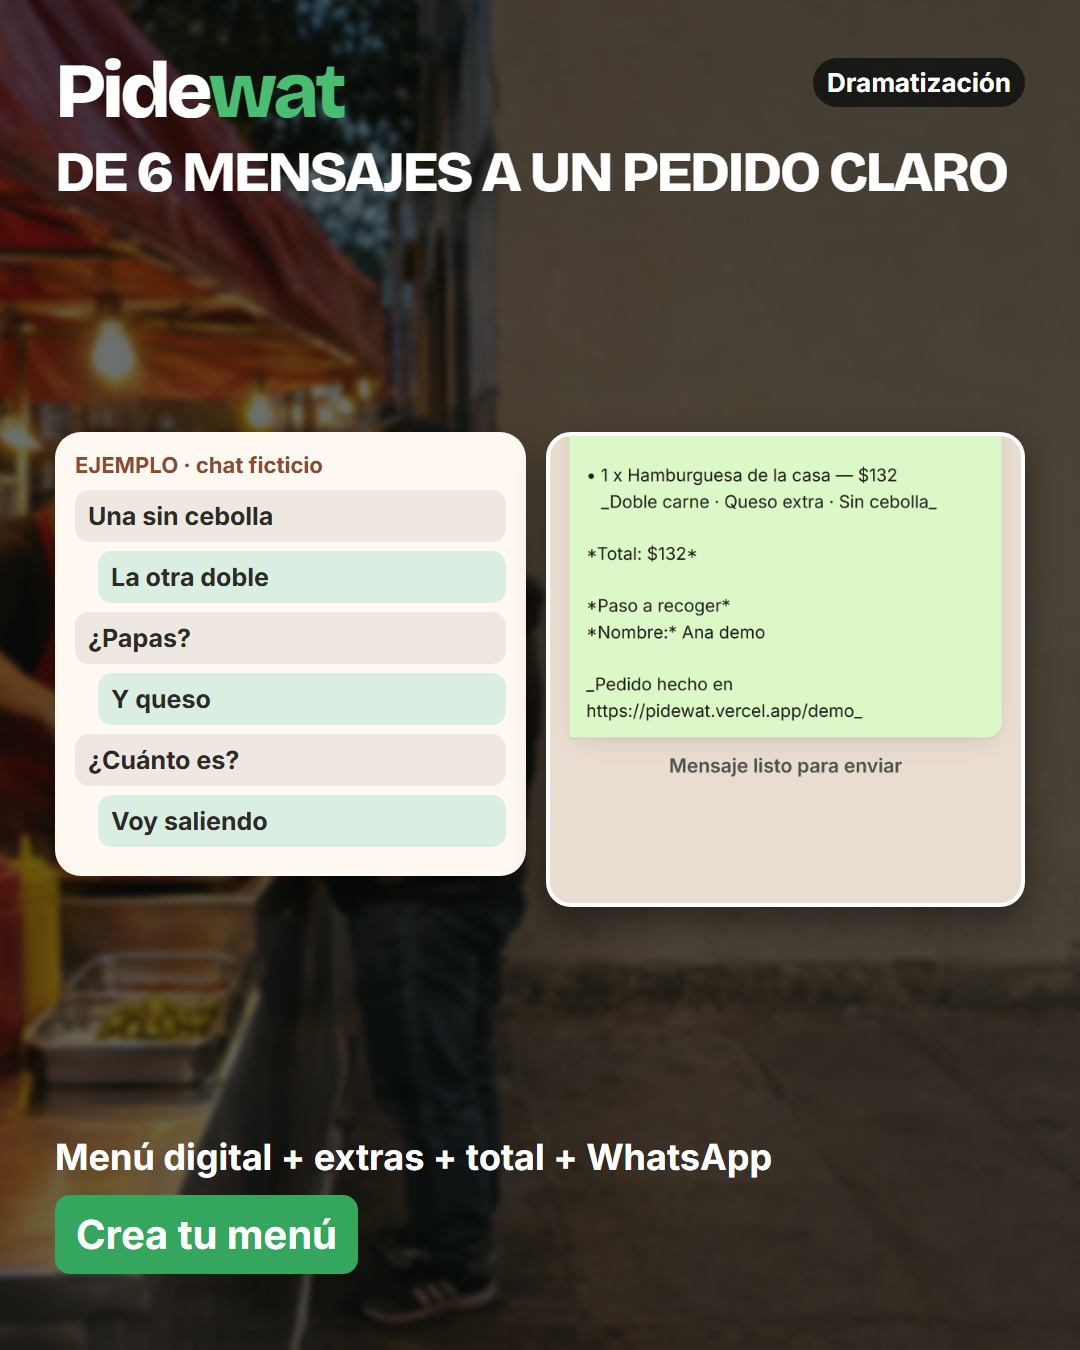
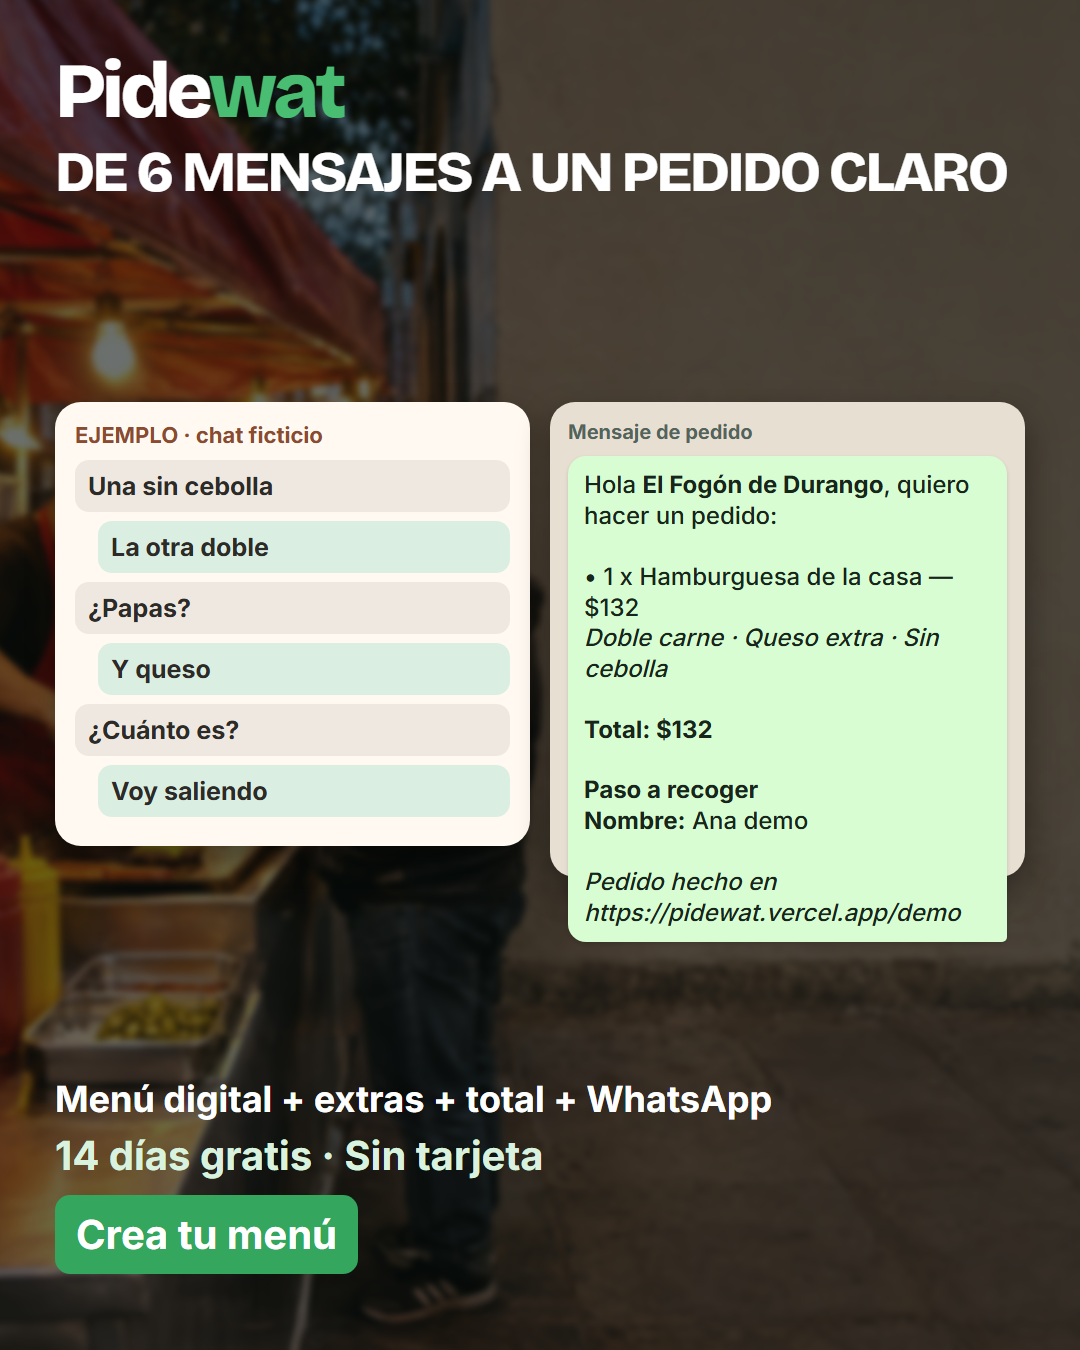
[Codex] Anuncios P3 y R3: oferta en P3, mensaje con formato de WhatsApp y sin «Dramatización»
- P3 muestra «14 días gratis · Sin tarjeta» junto al botón.
- El mensaje de pedido de P3 se ve con negritas e itálicas aplicadas (lógica de formatoWa de la landing), sin * ni _.
- P3 y R3 sin la etiqueta «Dramatización»; los videos no cambian.

Render y revisión: Claude en la PC.

Changed region(s): [[0.0306, 0.28, 0.9472, 0.7156], [0.0306, 0.8089, 0.7333, 0.8711], [0.7333, 0.0311, 0.9472, 0.0933]]

diff --git a/anuncios/src/Root.tsx b/anuncios/src/Root.tsx
@@ -194,16 +194,57 @@ function R2({ formato: f }: { formato: Formato }) {
 
 function ChatEjemplo({ f }: { f: Formato }) { return <div style={{ padding: f === "9x16" ? 25 : 20, borderRadius: 26, background: "#fff9f1", boxShadow: "0 12px 30px #0005", fontFamily: fuenteSubtitulo, color: "#2d2b28" }}><div style={{ fontSize: f === "9x16" ? 25 : 22, fontWeight: 800, color: "#8b4b2e", marginBottom: 12 }}>EJEMPLO · chat ficticio</div>{["Una sin cebolla", "La otra doble", "¿Papas?", "Y queso", "¿Cuánto es?", "Voy saliendo"].map((x, i) => <div key={x} style={{ margin: "9px 0", marginLeft: i % 2 ? 23 : 0, padding: "11px 13px", borderRadius: 14, background: i % 2 ? "#dbeee2" : "#eee8e1", fontSize: f === "9x16" ? 29 : 25, fontWeight: 700 }}>{x}</div>)}</div>; }
 
+// Copiada de src/components/landing/formatoWa.tsx para que Remotion no importe la app principal.
+function TextoWhatsapp({ texto }: { texto: string }) {
+  return <>{texto.split("\n").map((linea, i) => <span key={i} style={{ display: "block", minHeight: "1.25em" }}>{partesWhatsapp(linea)}</span>)}</>;
+}
+
+function partesWhatsapp(linea: string): React.ReactNode[] {
+  const nodos: React.ReactNode[] = [];
+  const re = /\*([^*]+)\*|_([^_]+)_/g;
+  let ultimo = 0;
+  let m: RegExpExecArray | null;
+  let k = 0;
+  while ((m = re.exec(linea))) {
+    if (m.index > ultimo) nodos.push(linea.slice(ultimo, m.index));
+    nodos.push(m[1] != null ? <strong key={k++}>{m[1]}</strong> : <em key={k++}>{m[2]}</em>);
+    ultimo = m.index + m[0].length;
+  }
+  if (ultimo < linea.length) nodos.push(linea.slice(ultimo));
+  return nodos;
+}
+
+const mensajePedidoP3 = [
+  "Hola *El Fogón de Durango*, quiero hacer un pedido:",
+  "",
+  "• 1 x Hamburguesa de la casa — $132",
+  "   _Doble carne · Queso extra · Sin cebolla_",
+  "",
+  "*Total: $132*",
+  "",
+  "*Paso a recoger*",
+  "*Nombre:* Ana demo",
+  "",
+  "_Pedido hecho en https://pidewat.vercel.app/demo_",
+].join("\n");
+
+function PedidoWhatsapp({ f }: { f: Formato }) {
+  return <div style={{ height: "100%", boxSizing: "border-box", padding: f === "9x16" ? 23 : 18, borderRadius: 25, background: "#e8dfd3", boxShadow: "0 14px 32px #0006", fontFamily: fuenteSubtitulo }}>
+    <div style={{ marginBottom: 12, color: "#53645a", fontSize: f === "9x16" ? 23 : 20, fontWeight: 800 }}>Mensaje de pedido</div>
+    <div style={{ padding: f === "9x16" ? "17px 19px" : "14px 16px", borderRadius: "18px 18px 5px 18px", background: "#d9fdd3", color: "#17251b", fontSize: f === "9x16" ? 28 : 24, lineHeight: 1.28, boxShadow: "0 2px 4px #0002" }}><TextoWhatsapp texto={mensajePedidoP3} /></div>
+  </div>;
+}
+
 function Imagen({ tipo, formato: f }: { tipo: "P3" | "R3"; formato: Formato }) {
   const p3 = tipo === "P3";
   const fondo = p3 ? "puesto-4x5.jpg" : "fonda-qr-4x5.jpg";
-  const captura = p3 ? "p3-mensaje-pedido.png" : "r3-menu-pedido-mesa.png";
+  const captura = "r3-menu-pedido-mesa.png";
   const altoCapturas = f === "9x16" ? 655 : 475;
   const tarjeta = { flex: 1, overflow: "hidden", borderRadius: 25, border: "4px solid #fff", background: "#fff", boxShadow: "0 14px 32px #0006" } as const;
-  return <AbsoluteFill><Fondo archivo={fondo} oscurecer={.6} /><EtiquetaIA f={f} lado="derecha" /><div style={{ position: "absolute", ...seguro(f), display: "flex", flexDirection: "column", justifyContent: "space-between" }}>
+  return <AbsoluteFill><Fondo archivo={fondo} oscurecer={.6} /><div style={{ position: "absolute", ...seguro(f), display: "flex", flexDirection: "column", justifyContent: "space-between" }}>
     <div><Marca clara tamano={f === "9x16" ? 94 : 78} /><div style={{ marginTop: 22, color: "#fff", fontFamily: fuenteTitulo, fontSize: f === "9x16" ? 64 : 57, fontWeight: 800, letterSpacing: -2.5, lineHeight: .94 }}>{p3 ? "DE 6 MENSAJES A UN PEDIDO CLARO" : "TU RESTAURANTE TIENE MENÚ. HAZLO MÁS FÁCIL DE PEDIR"}</div></div>
-    {p3 ? <div style={{ display: "flex", gap: 20, alignItems: "stretch", height: altoCapturas }}><div style={{ flex: 1 }}><ChatEjemplo f={f} /></div><div style={tarjeta}><Img src={staticFile(`assets/grabaciones/${captura}`)} style={{ width: "100%", height: "100%", objectFit: "cover", objectPosition: "center bottom" }} /></div></div> : <div style={{ display: "flex", gap: 20, alignItems: "stretch", height: altoCapturas }}><div style={tarjeta}><OffthreadVideo src={staticFile("assets/grabaciones/c3-mesa-qr.mp4")} volume={0} style={{ width: "100%", height: "100%", objectFit: "cover", objectPosition: "center top" }} /></div><div style={tarjeta}><Img src={staticFile(`assets/grabaciones/${captura}`)} style={{ width: "100%", height: "100%", objectFit: "cover", objectPosition: "center 72%" }} /></div></div>}
-    <div><div style={{ color: "#fff", fontFamily: fuenteSubtitulo, fontSize: f === "9x16" ? 42 : 36, fontWeight: 800, lineHeight: 1.08 }}>{p3 ? "Menú digital + extras + total + WhatsApp" : "Menú digital · QR · Pedidos por WhatsApp"}</div><div style={{ display: "inline-block", marginTop: 18, padding: "15px 21px", borderRadius: 15, background: "#35a65d", color: "#fff", fontFamily: fuenteSubtitulo, fontSize: f === "9x16" ? 45 : 40, fontWeight: 800 }}>{p3 ? "Crea tu menú" : "14 días gratis"}</div></div>
+    {p3 ? <div style={{ display: "flex", gap: 20, alignItems: "stretch", height: altoCapturas }}><div style={{ flex: 1 }}><ChatEjemplo f={f} /></div><div style={{ flex: 1 }}><PedidoWhatsapp f={f} /></div></div> : <div style={{ display: "flex", gap: 20, alignItems: "stretch", height: altoCapturas }}><div style={tarjeta}><OffthreadVideo src={staticFile("assets/grabaciones/c3-mesa-qr.mp4")} volume={0} style={{ width: "100%", height: "100%", objectFit: "cover", objectPosition: "center top" }} /></div><div style={tarjeta}><Img src={staticFile(`assets/grabaciones/${captura}`)} style={{ width: "100%", height: "100%", objectFit: "cover", objectPosition: "center 72%" }} /></div></div>}
+    <div><div style={{ color: "#fff", fontFamily: fuenteSubtitulo, fontSize: f === "9x16" ? 42 : 36, fontWeight: 800, lineHeight: 1.08 }}>{p3 ? "Menú digital + extras + total + WhatsApp" : "Menú digital · QR · Pedidos por WhatsApp"}</div>{p3 ? <div style={{ marginTop: 15, color: "#d9f2df", fontFamily: fuenteSubtitulo, fontSize: f === "9x16" ? 44 : 40, fontWeight: 800, lineHeight: 1.08 }}>14 días gratis · Sin tarjeta</div> : null}<div style={{ display: "inline-block", marginTop: 18, padding: "15px 21px", borderRadius: 15, background: "#35a65d", color: "#fff", fontFamily: fuenteSubtitulo, fontSize: f === "9x16" ? 45 : 40, fontWeight: 800 }}>{p3 ? "Crea tu menú" : "14 días gratis"}</div></div>
   </div></AbsoluteFill>;
 }
 

diff --git a/docs/anuncios/CAMBIOS.md b/docs/anuncios/CAMBIOS.md
@@ -1,5 +1,13 @@
 # Cambios de anuncios
 
+## Vuelta 8 (retoques P3 y R3)
+
+### Corregido
+
+- P3 en 4:5 y 9:16 incorpora la oferta obligatoria «14 días gratis · Sin tarjeta» junto al CTA «Crea tu menú», con tipografía de 40 px o mayor.
+- La comparación de P3 ahora muestra el mensaje de pedido como burbuja verde de WhatsApp: aplica negritas e itálicas igual que `src/components/landing/formatoWa.tsx` y no expone los marcadores `*` ni `_`. El contenido reproduce el pedido de la grabación: Hamburguesa de la casa, Doble carne · Queso extra · Sin cebolla, $132, recoger, Ana demo y el enlace de demo.
+- Se retiró la etiqueta «Dramatización» de las imágenes P3 y R3. No se modificaron P1, P2, R1 ni R2.
+
 ## Vuelta 7 (R2 y subtítulos)
 
 ### Corregido
